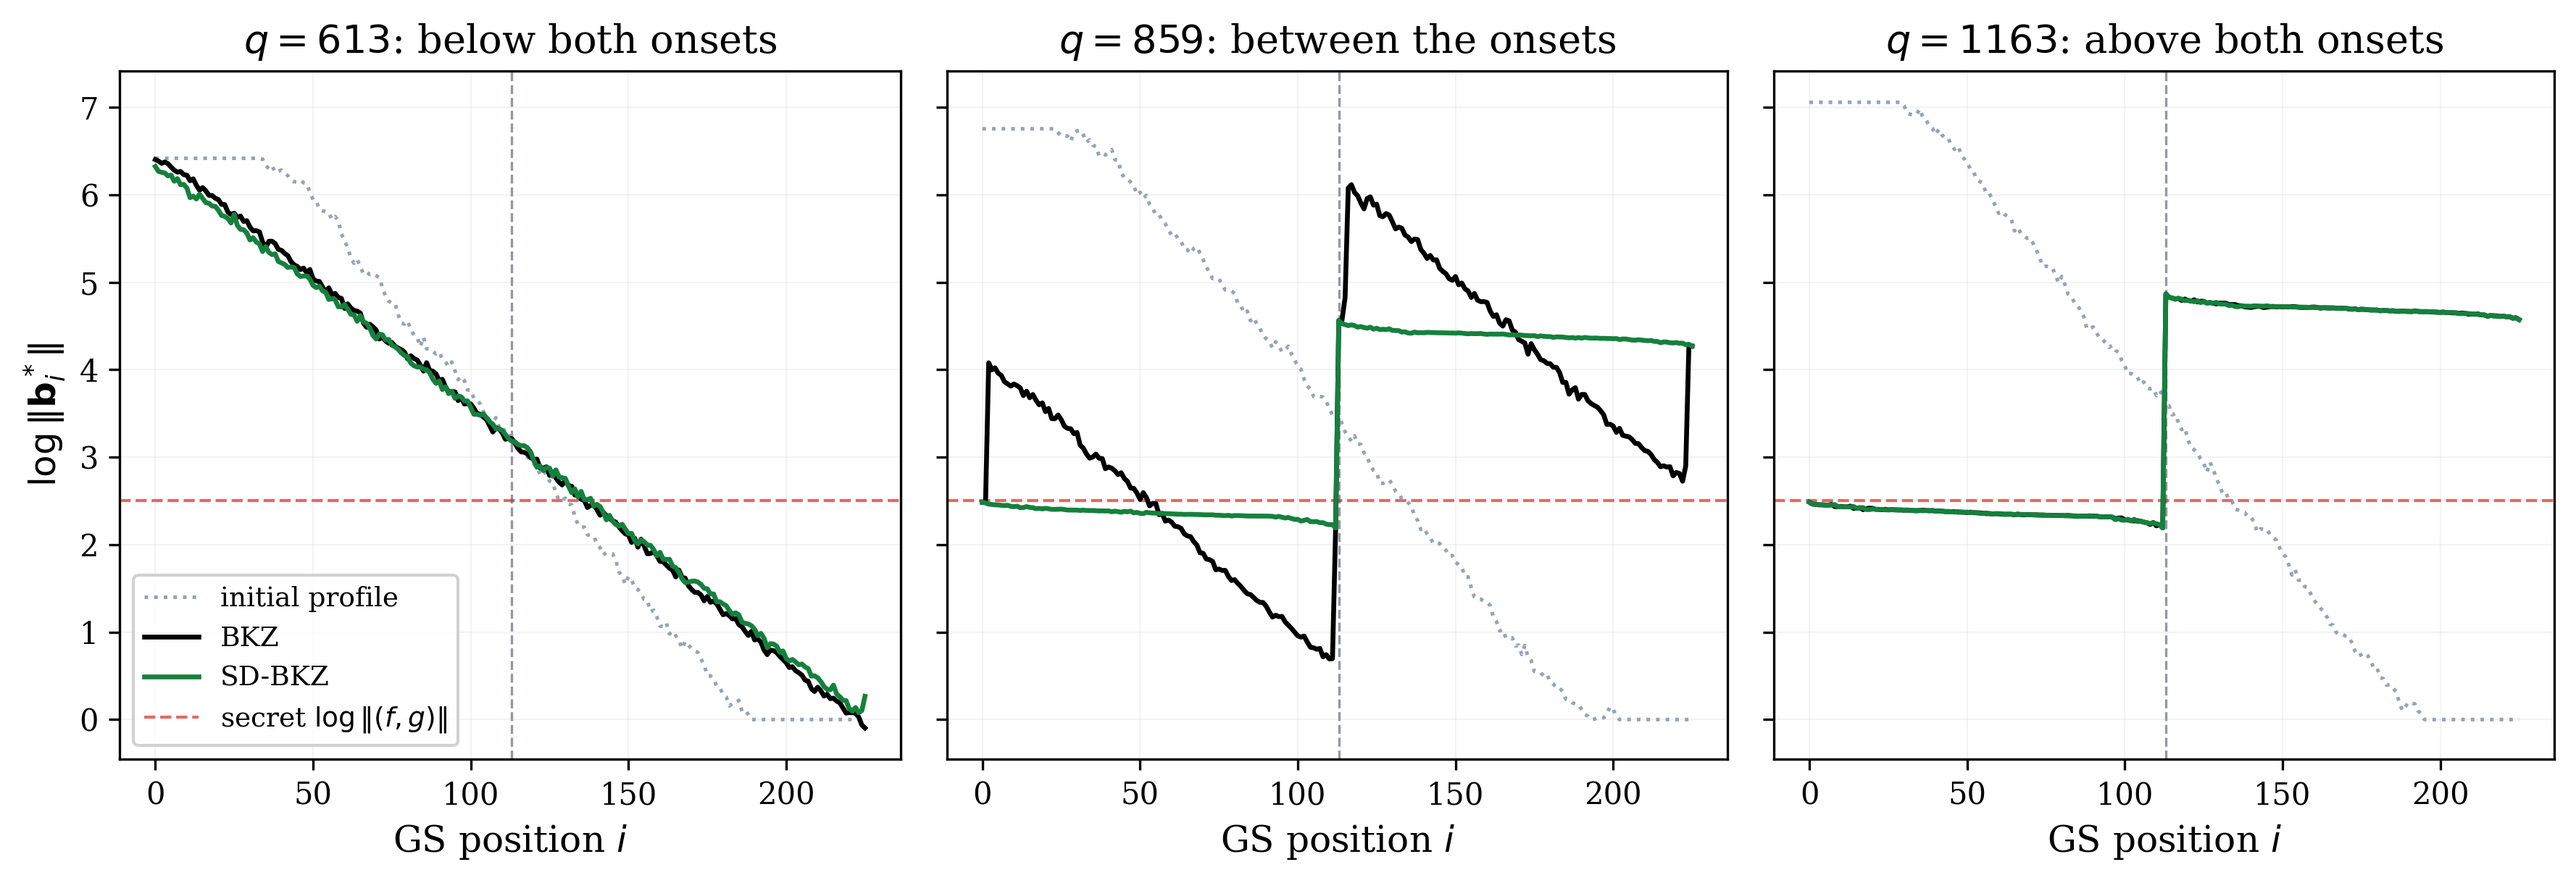
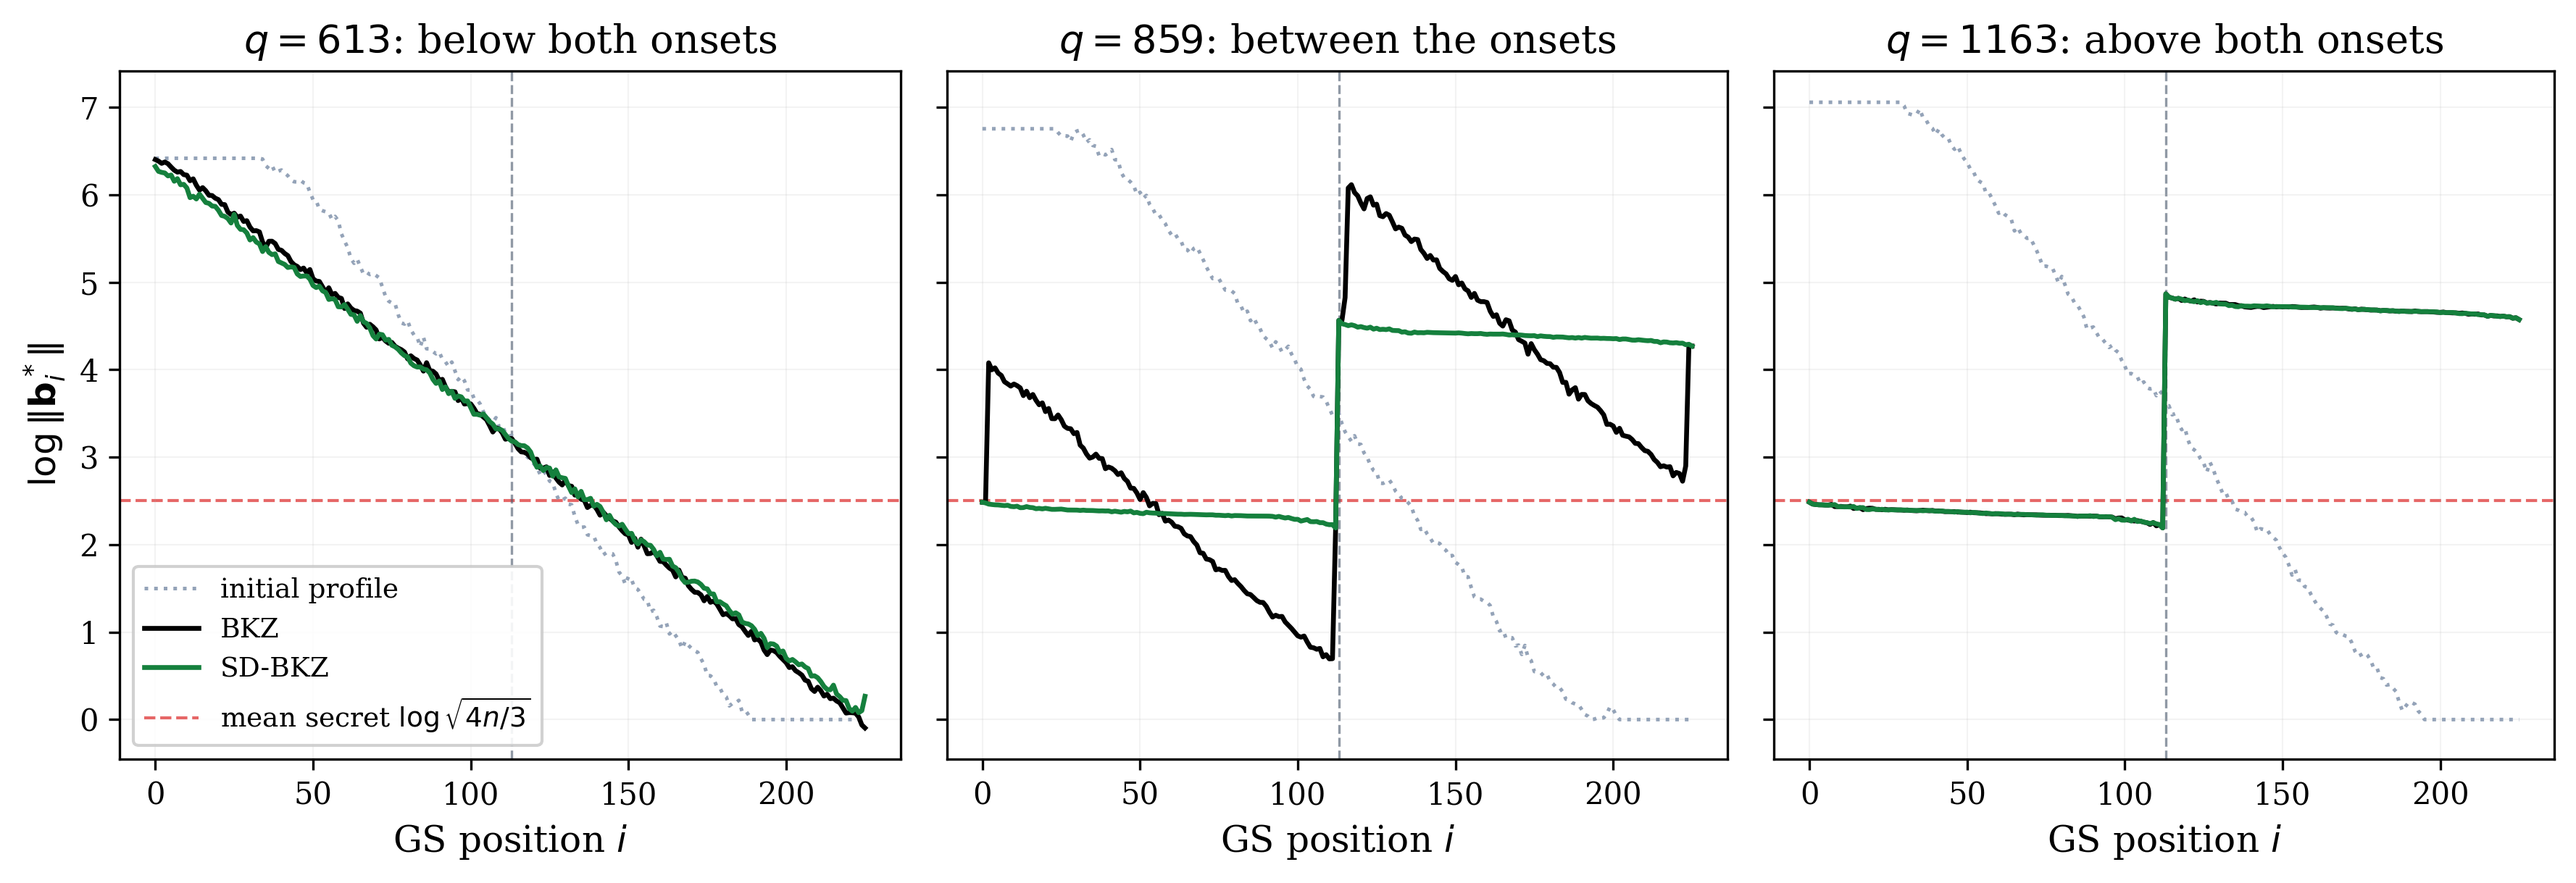
fix: figure file order, seed threshold, empty-cell stop, onset test

Changed region(s): [[0.0624, 0.6235, 0.1873, 0.7793], [0.0937, 0.7793, 0.2186, 0.8417]]

diff --git a/tests/test_paper2_claims.py b/tests/test_paper2_claims.py
@@ -78,3 +78,20 @@ def test_sign_p_two_sided_bounded():
     assert _sign_p_two_sided(0, 0) == 1.0
     assert _sign_p_two_sided(3, 3) == 1.0
     assert abs(_sign_p_two_sided(10, 3) - 0.0923) < 1e-4
+
+
+def test_figure_onset_constants_match_claims_tables():
+    """Hard-coded figure onsets equal the claims tables recomputed from seeds."""
+    import sys
+    sys.path.insert(0, REPO)
+    sys.path.insert(0, os.path.join(REPO, "scripts"))
+    from _paper2_claims.recomputed import DSDGAP_PAPER, ONSET_PAPER
+    from analysis.plots.ntru_dsd_onset_trend import ONSET_TREND
+    from analysis.plots.ntru_xengine_onset import PINNED
+
+    for n, sd, bkz, _ in ONSET_TREND:
+        assert DSDGAP_PAPER[(n, "flag")][:2] == (sd, bkz)
+    for label, rows in PINNED.items():
+        engine = "fplll" if label.startswith("fplll") else "g6k"
+        for n, sd, bkz, _ in rows:
+            assert ONSET_PAPER[(n, engine)][:2] == (sd, bkz)

diff --git a/analysis/plots/ntru_profiles.py b/analysis/plots/ntru_profiles.py
@@ -62,7 +62,7 @@ def fig_ntru_profiles(output_dir=".", fname="profiles.png"):
         ax.plot(d["gs_lognorms_bkz"], color=bkz_c, lw=1.6, label="BKZ", zorder=3)
         ax.plot(d["gs_lognorms_sdbkz"], color=sd_c, lw=1.6, label="SD-BKZ", zorder=4)
         ax.axhline(secret, color=COLORS["zero"], lw=1.0, ls="--", alpha=0.7,
-                   zorder=1, label=r"secret $\log\|(f,g)\|$")
+                   zorder=1, label=r"mean secret $\log\sqrt{4n/3}$")
         ax.axvline(N, color="#475569", lw=0.8, ls="--", alpha=0.6, zorder=1)
         ax.set_title(f"$q={q}$: {lbl}")
         ax.set_xlabel("GS position $i$")

diff --git a/scripts/_paper2_claims/r2_fit.py b/scripts/_paper2_claims/r2_fit.py
@@ -105,9 +105,10 @@ def _band_average(tags, qs):
     for t in tags:
         for q in qs:
             m, b, ns = _per_position_mean(t, q)
-            if m is not None:
-                diffs.append(m)
-                bkzs.append(b)
+            if m is None:  # an empty cell would silently change the average
+                raise ValueError(f"no usable seeds for {t} q={q}")
+            diffs.append(m)
+            bkzs.append(b)
     return np.mean(np.vstack(diffs), axis=0), np.mean(np.vstack(bkzs), axis=0)
 
 

diff --git a/analysis/plots/peak_dip_trajectory.py b/analysis/plots/peak_dip_trajectory.py
@@ -33,10 +33,10 @@ def fig_peak_dip_trajectory(groups, output_dir=".", min_seeds=10):
                for b in BETAS}
 
     for (n, beta), seeds in sorted(groups.items()):
-        if beta not in BETAS or len(seeds) < min_seeds:
+        if beta not in BETAS:
             continue
         means, _, n_used = _per_position_group_stats(seeds)
-        if means is None:
+        if means is None or n_used < min_seeds:
             continue
         d = by_beta[beta]
         d["ns"].append(n)

diff --git a/analysis/plots/ntru_paired_keys.py b/analysis/plots/ntru_paired_keys.py
@@ -27,7 +27,7 @@ def per_key(n):
                        f"n{n:03d}_beta{BETA:02d}", "seed*.json")
     # One cell per (q, seed): a seed rerun at a higher precision replaces the lower one.
     best = {}
-    for f in glob.glob(pat):
+    for f in sorted(glob.glob(pat)):  # fixed order: bubble draw order follows it
         q_dir, p_dir = f.split(os.sep)[-4:-2]
         prec = int(p_dir[1:].split("_")[0])
         with open(f) as fh:
